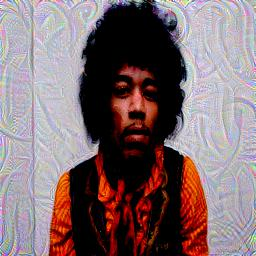
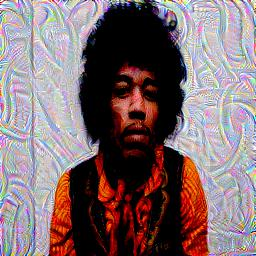
Training model

diff --git a/src/nst.py b/src/nst.py
@@ -59,7 +59,7 @@ def train(vgg,opt,scaler):
     '''
     vgg.eval()
     for epoch in range(config.epochs):
-        print('Epoch: ',str(epoch+1))
+        print('epoch ',str(epoch))
         original = vgg(orig)
         generated = vgg(gn)
         style = vgg(style_im)
@@ -68,6 +68,7 @@ def train(vgg,opt,scaler):
         for o,g,s in zip(original,generated,style):
             batch_size,channel,height,width = g.shape
             oloss += torch.mean((g-o)**2)
+
             #gram/style matrix
             gram = g.view(channel,height*width).mm(g.view(channel,height*width).t())
             ab = s.view(channel,height*width).mm(s.view(channel,height*width).t())
@@ -81,13 +82,13 @@ def train(vgg,opt,scaler):
             scaler.update()
 
         if epoch%10==0:
-            print('Epoch: ',str(epoch),'Model loss: ',loss.item())
+            print('Model loss: ',loss.item())
 
     chkpt = {'model':vgg.state_dict(),'optimizer':opt.state_dict()}
     torch.save(chkpt,config.model_path+'/nst_model.pth')
 
     with torch.no_grad():
-        save_image(gn,config.out_path+'/output.jpg')
+        save_image(gn,config.out_path+'/output1.jpg')
 
     print('Final Loss: ',loss.item())
 

diff --git a/src/config.py b/src/config.py
@@ -1,5 +1,8 @@
 import torch
 
+'''
+set hyperparameter values
+'''
 path = r'C:\Users\Pooja\Documents\ML_projects\Muralscape\model'
 im_size = 256
 device = torch.device('cuda')
@@ -7,7 +10,7 @@ im_path = r'C:\Users\Pooja\Documents\ML_projects\Muralscape\assets\jimi.jpeg'
 style_path = r'C:\Users\Pooja\Documents\ML_projects\Muralscape\assets\psy.jpg'
 out_path = r'C:\Users\Pooja\Documents\ML_projects\Muralscape\samples'
 model_path = r'C:\Users\Pooja\Documents\ML_projects\Muralscape\model'
-epochs = 1000
+epochs = 3000
 a = 1
-b = 0.01
-lr = 0.001
+b = 0.04
+lr = 0.002
